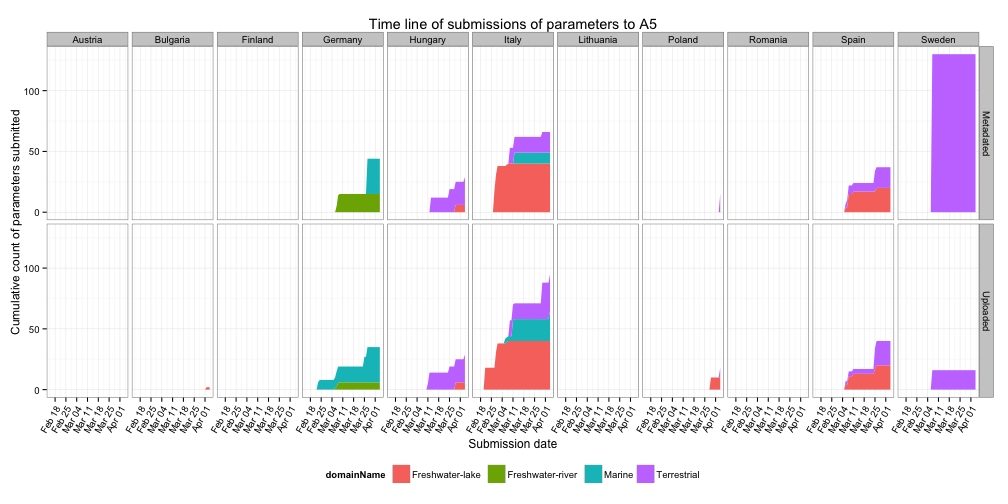
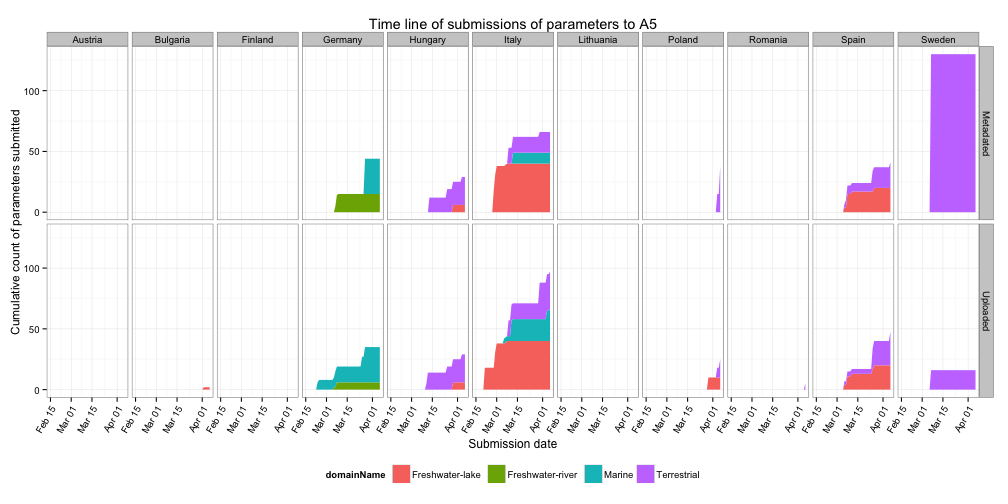
publishing deck

diff --git a/index.html b/index.html
@@ -48,9 +48,9 @@
   </hgroup>
   <article>
     <ul>
-<li>Last updated <code>2013-04-04</code></li>
+<li>Last updated <code>2013-04-06</code></li>
 <li>Deadline for data submission: <code>2013-03-08</code></li>
-<li>Days to deadline: <code>-27</code></li>
+<li>Days to deadline: <code>-29</code></li>
 <li>Total number of sites sampled in 2012: <code>61</code>; sub-sites: <code>65</code></li>
 </ul>
 
@@ -58,13 +58,13 @@
 
 <!-- html table generated in R 2.15.3 by xtable 1.7-0 package -->
 
-<!-- Thu Apr  4 11:19:05 2013 -->
+<!-- Sat Apr  6 11:19:32 2013 -->
 
 <TABLE border=1>
 <TR> <TH>  </TH> <TH> No. uploaded </TH> <TH> No. metadated </TH> <TH> Total no. </TH> <TH> Upload ratio </TH> <TH> Metadata ratio </TH>  </TR>
-  <TR> <TD align="right"> Year2012 </TD> <TD align="right"> 189 </TD> <TD align="right"> 247 </TD> <TD align="right"> 2026 </TD> <TD align="right"> 0.09 </TD> <TD align="right"> 0.12 </TD> </TR>
-  <TR> <TD align="right"> Year2011 </TD> <TD align="right">  46 </TD> <TD align="right">  74 </TD> <TD align="right"> 270 </TD> <TD align="right"> 0.17 </TD> <TD align="right"> 0.27 </TD> </TR>
-  <TR> <TD align="right"> Sum </TD> <TD align="right"> 235 </TD> <TD align="right"> 321 </TD> <TD align="right"> 2296 </TD> <TD align="right"> 0.10 </TD> <TD align="right"> 0.14 </TD> </TR>
+  <TR> <TD align="right"> Year2012 </TD> <TD align="right"> 209 </TD> <TD align="right"> 274 </TD> <TD align="right"> 2026 </TD> <TD align="right"> 0.10 </TD> <TD align="right"> 0.14 </TD> </TR>
+  <TR> <TD align="right"> Year2011 </TD> <TD align="right">  48 </TD> <TD align="right">  74 </TD> <TD align="right"> 270 </TD> <TD align="right"> 0.18 </TD> <TD align="right"> 0.27 </TD> </TR>
+  <TR> <TD align="right"> Sum </TD> <TD align="right"> 257 </TD> <TD align="right"> 348 </TD> <TD align="right"> 2296 </TD> <TD align="right"> 0.11 </TD> <TD align="right"> 0.15 </TD> </TR>
    </TABLE>
 
   </article>

diff --git a/index.md b/index.md
@@ -26,19 +26,19 @@ github:
 
 ## State of uploading process
 
-* Last updated ``2013-04-04``
+* Last updated ``2013-04-06``
 * Deadline for data submission: `2013-03-08`
-* Days to deadline: ``-27``
+* Days to deadline: ``-29``
 * Total number of sites sampled in 2012: ``61``; sub-sites: ``65``
 
 Parameters uploaded and metadated:
 <!-- html table generated in R 2.15.3 by xtable 1.7-0 package -->
-<!-- Thu Apr  4 11:19:05 2013 -->
+<!-- Sat Apr  6 11:19:32 2013 -->
 <TABLE border=1>
 <TR> <TH>  </TH> <TH> No. uploaded </TH> <TH> No. metadated </TH> <TH> Total no. </TH> <TH> Upload ratio </TH> <TH> Metadata ratio </TH>  </TR>
-  <TR> <TD align="right"> Year2012 </TD> <TD align="right"> 189 </TD> <TD align="right"> 247 </TD> <TD align="right"> 2026 </TD> <TD align="right"> 0.09 </TD> <TD align="right"> 0.12 </TD> </TR>
-  <TR> <TD align="right"> Year2011 </TD> <TD align="right">  46 </TD> <TD align="right">  74 </TD> <TD align="right"> 270 </TD> <TD align="right"> 0.17 </TD> <TD align="right"> 0.27 </TD> </TR>
-  <TR> <TD align="right"> Sum </TD> <TD align="right"> 235 </TD> <TD align="right"> 321 </TD> <TD align="right"> 2296 </TD> <TD align="right"> 0.10 </TD> <TD align="right"> 0.14 </TD> </TR>
+  <TR> <TD align="right"> Year2012 </TD> <TD align="right"> 209 </TD> <TD align="right"> 274 </TD> <TD align="right"> 2026 </TD> <TD align="right"> 0.10 </TD> <TD align="right"> 0.14 </TD> </TR>
+  <TR> <TD align="right"> Year2011 </TD> <TD align="right">  48 </TD> <TD align="right">  74 </TD> <TD align="right"> 270 </TD> <TD align="right"> 0.18 </TD> <TD align="right"> 0.27 </TD> </TR>
+  <TR> <TD align="right"> Sum </TD> <TD align="right"> 257 </TD> <TD align="right"> 348 </TD> <TD align="right"> 2296 </TD> <TD align="right"> 0.11 </TD> <TD align="right"> 0.15 </TD> </TR>
    </TABLE>
 
 
